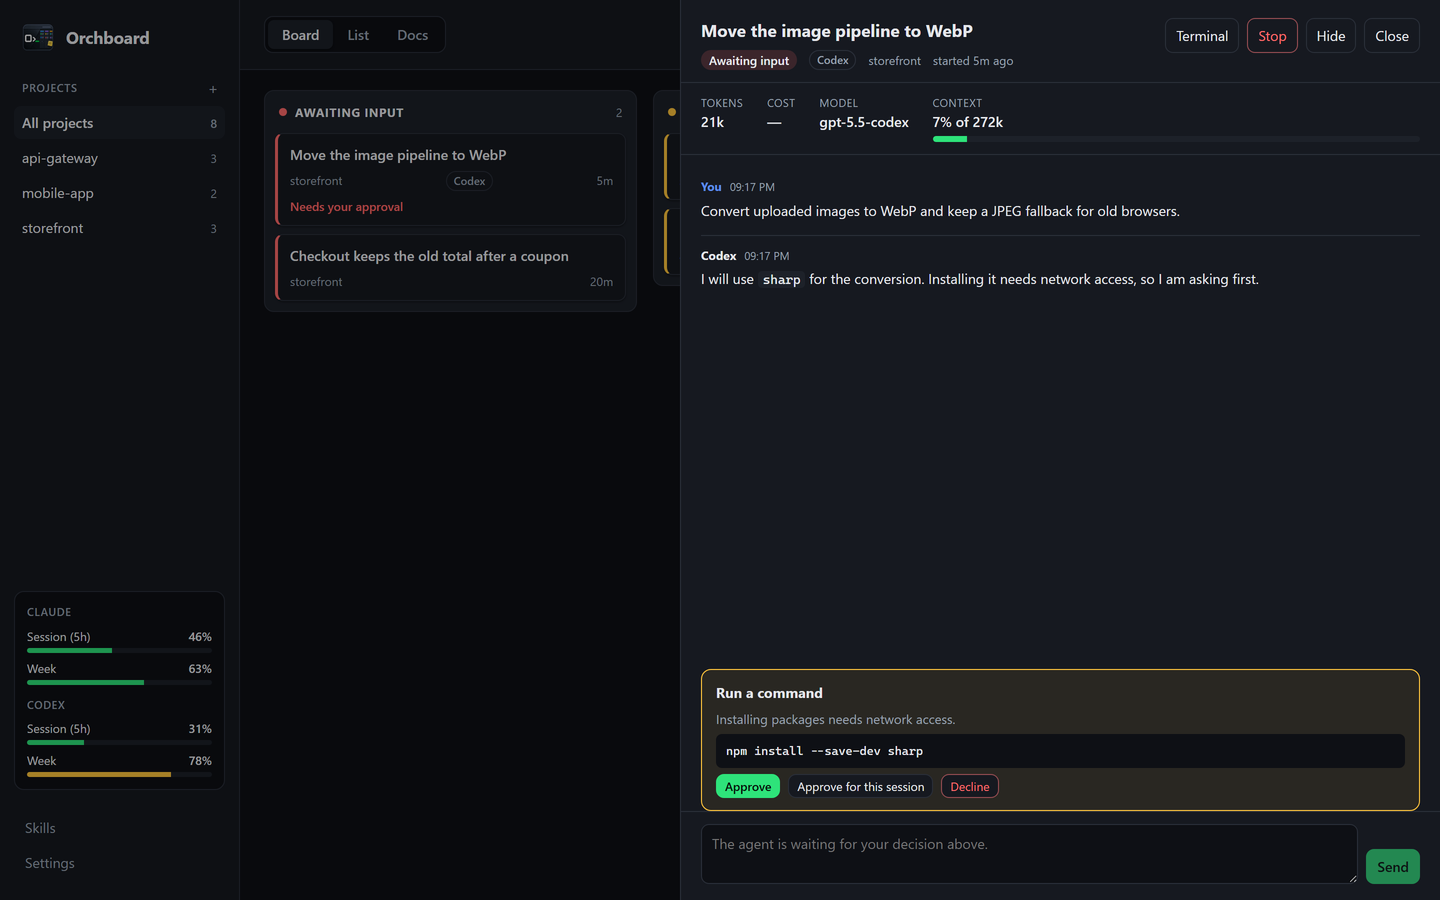
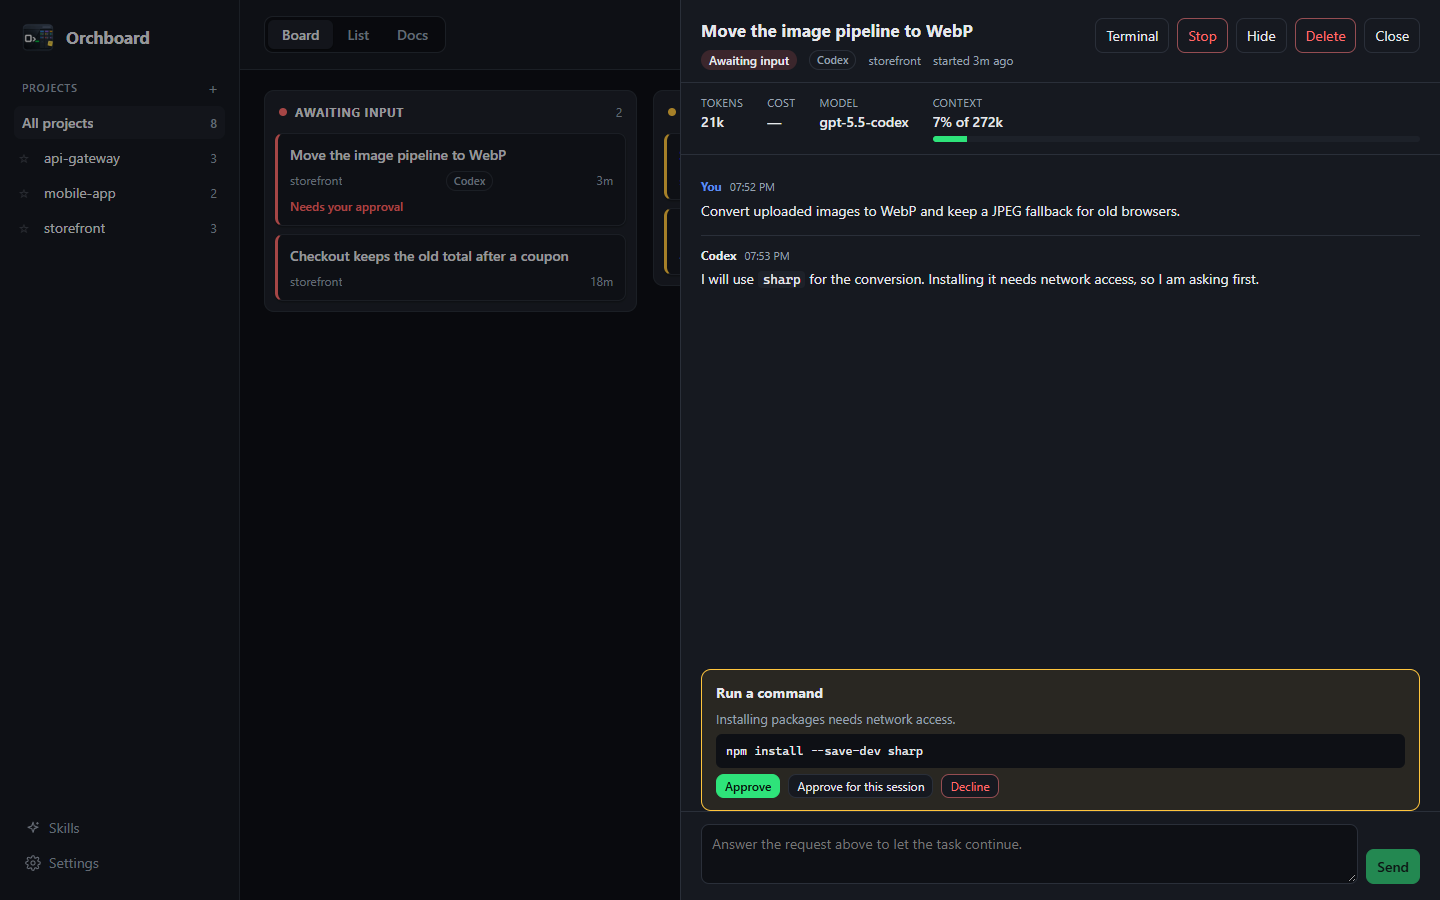
docs: refresh screenshots and show the board in the readme

diff --git a/README.md b/README.md
@@ -62,9 +62,9 @@ Then open <http://localhost:4317>.
 
 ## What you can do
 
-| ![Task detail with a Codex approval request](https://raw.githubusercontent.com/Blaketon/orchboard/main/docs/screenshots/detail.png) | ![The Docs view editing CLAUDE.md](https://raw.githubusercontent.com/Blaketon/orchboard/main/docs/screenshots/docs.png) |
-| ----------------------------------------------------------------------------------------------------------------------------------- | ----------------------------------------------------------------------------------------------------------------------- |
-| Follow a task's conversation, tokens, cost and context — and answer Codex's approval requests.                                      | Edit each project's `CLAUDE.md` and `AGENTS.md` in the browser.                                                         |
+| ![The board, with agents, queue columns and plan usage](https://raw.githubusercontent.com/Blaketon/orchboard/main/docs/screenshots/board.png) | ![Task detail with a Codex approval request](https://raw.githubusercontent.com/Blaketon/orchboard/main/docs/screenshots/detail.png) | ![The Docs view editing CLAUDE.md](https://raw.githubusercontent.com/Blaketon/orchboard/main/docs/screenshots/docs.png) |
+| --------------------------------------------------------------------------------------------------------------------------------------------- | ----------------------------------------------------------------------------------------------------------------------------------- | ----------------------------------------------------------------------------------------------------------------------- |
+| Agents, queue columns and plan usage on one board.                                                                                            | Follow a task's conversation, tokens, cost and context — and answer Codex's approval requests.                                      | Edit each project's `CLAUDE.md` and `AGENTS.md` in the browser.                                                         |
 
 - **One board for both agents.** Claude Code background agents and Codex tasks side by side,
   grouped into Awaiting input, Working and Completed, updated live.
